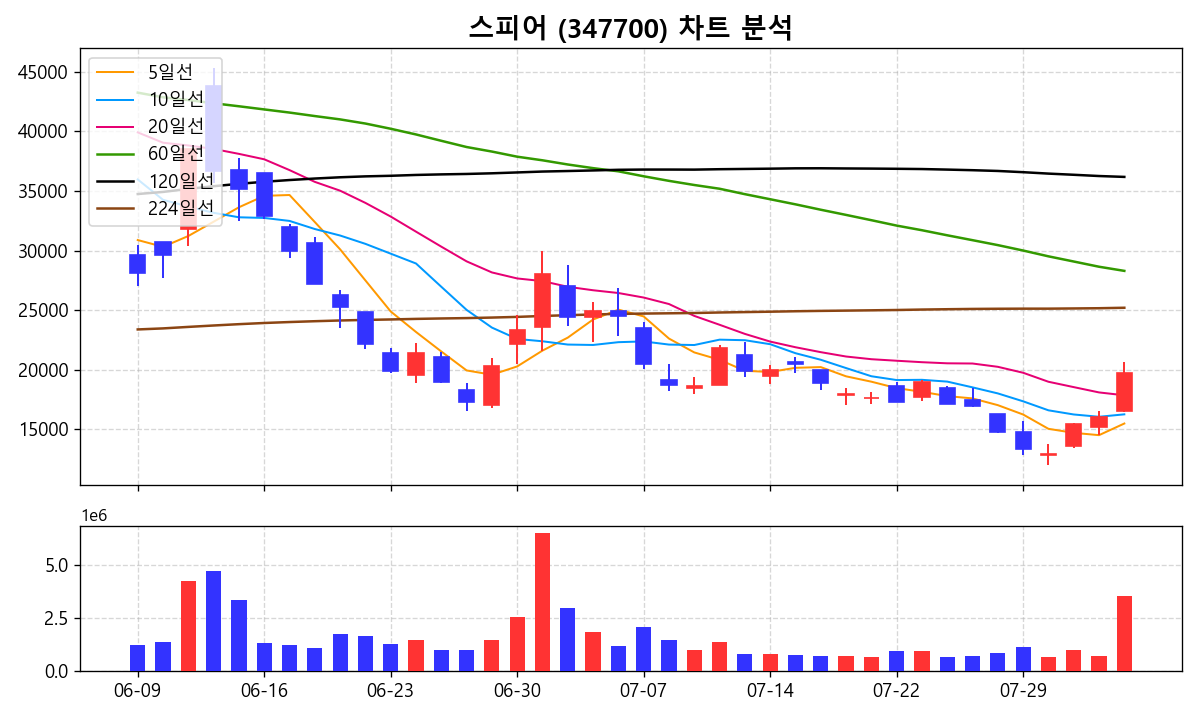
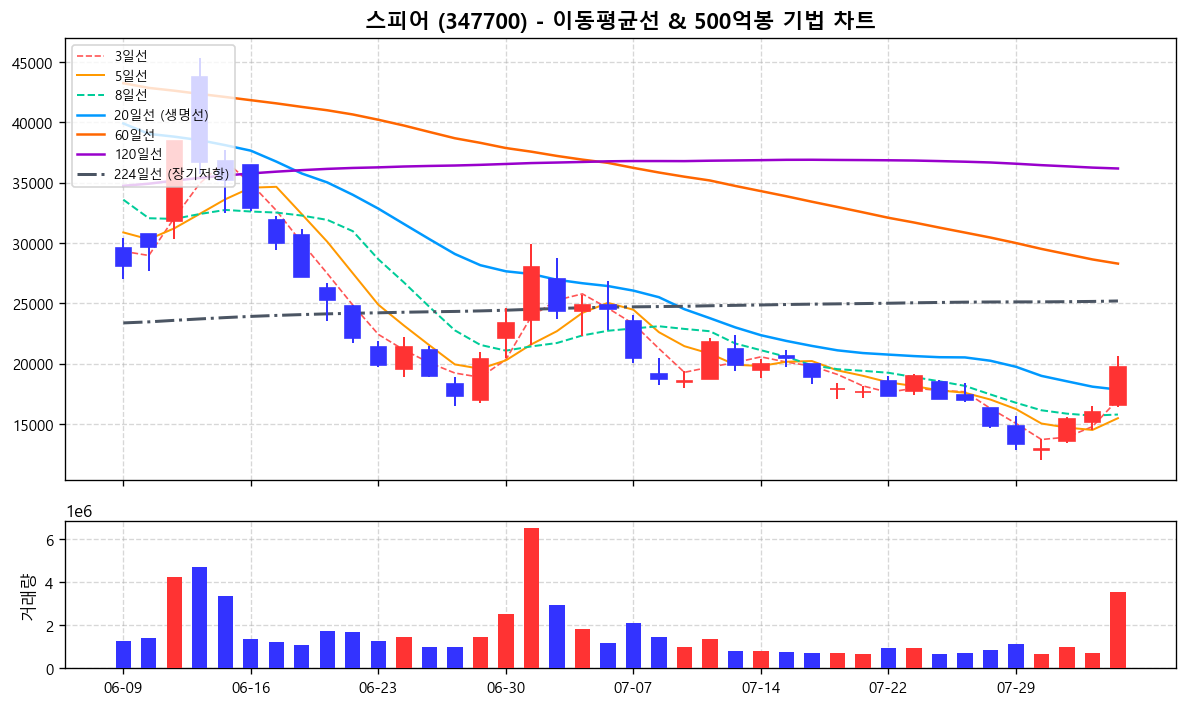
Fix: Include charts for 500b/150b candle tab stocks

diff --git a/run_full_rescan.py b/run_full_rescan.py
@@ -157,6 +157,10 @@ if not podosi_web:
 # 500억/150억봉 스캐너 데이터 연동
 def load_b500m_data(date_str):
     scanner_dir = r"C:\Users\pc\.gemini\antigravity\scratch\stock_scanner_500m"
+    scanner_charts_dir = os.path.join(scanner_dir, "charts")
+    target_charts_dir = os.path.join(".", "charts", date_str)
+    os.makedirs(target_charts_dir, exist_ok=True)
+
     scanner_json = os.path.join(scanner_dir, f"scan_results_integrated_{date_str}.json")
     b500m_list = []
     if os.path.exists(scanner_json):
@@ -165,19 +169,30 @@ def load_b500m_data(date_str):
                 data = json.load(f)
                 items = data.get('scan_results', [])
                 for s in items:
+                    code = s.get('code', '')
+                    src_png = os.path.join(scanner_charts_dir, f"{code}.png")
+                    dst_png = os.path.join(target_charts_dir, f"{code}.png")
+                    chart_path = ""
+                    if os.path.exists(src_png):
+                        if not os.path.exists(dst_png):
+                            shutil.copyfile(src_png, dst_png)
+                        chart_path = f"charts/{date_str}/{code}.png"
+
                     b500m_list.append({
-                        'code': s.get('code', ''),
+                        'code': code,
                         'name': s.get('name', ''),
                         'close': s.get('close', 0),
                         'rate': s.get('rate', 0.0),
                         'pattern': f"{s.get('candle_class', '500억봉')} 기준봉",
-                        'comment': s.get('commentary', '500억/150억 대량 수급 발생 및 지지선 점검')
+                        'comment': s.get('commentary', '500억/150억 대량 수급 발생 및 지지선 점검'),
+                        'chart': chart_path
                     })
         except Exception as e:
             print(f"[500억봉 연동 오류] {e}")
     return b500m_list
 
 b500m_web = load_b500m_data(date_str)
+
 
 # 오늘 데이터(AI 코멘트 + 차트 포함) 히스토리에 저장
 history_data[date_str] = {
